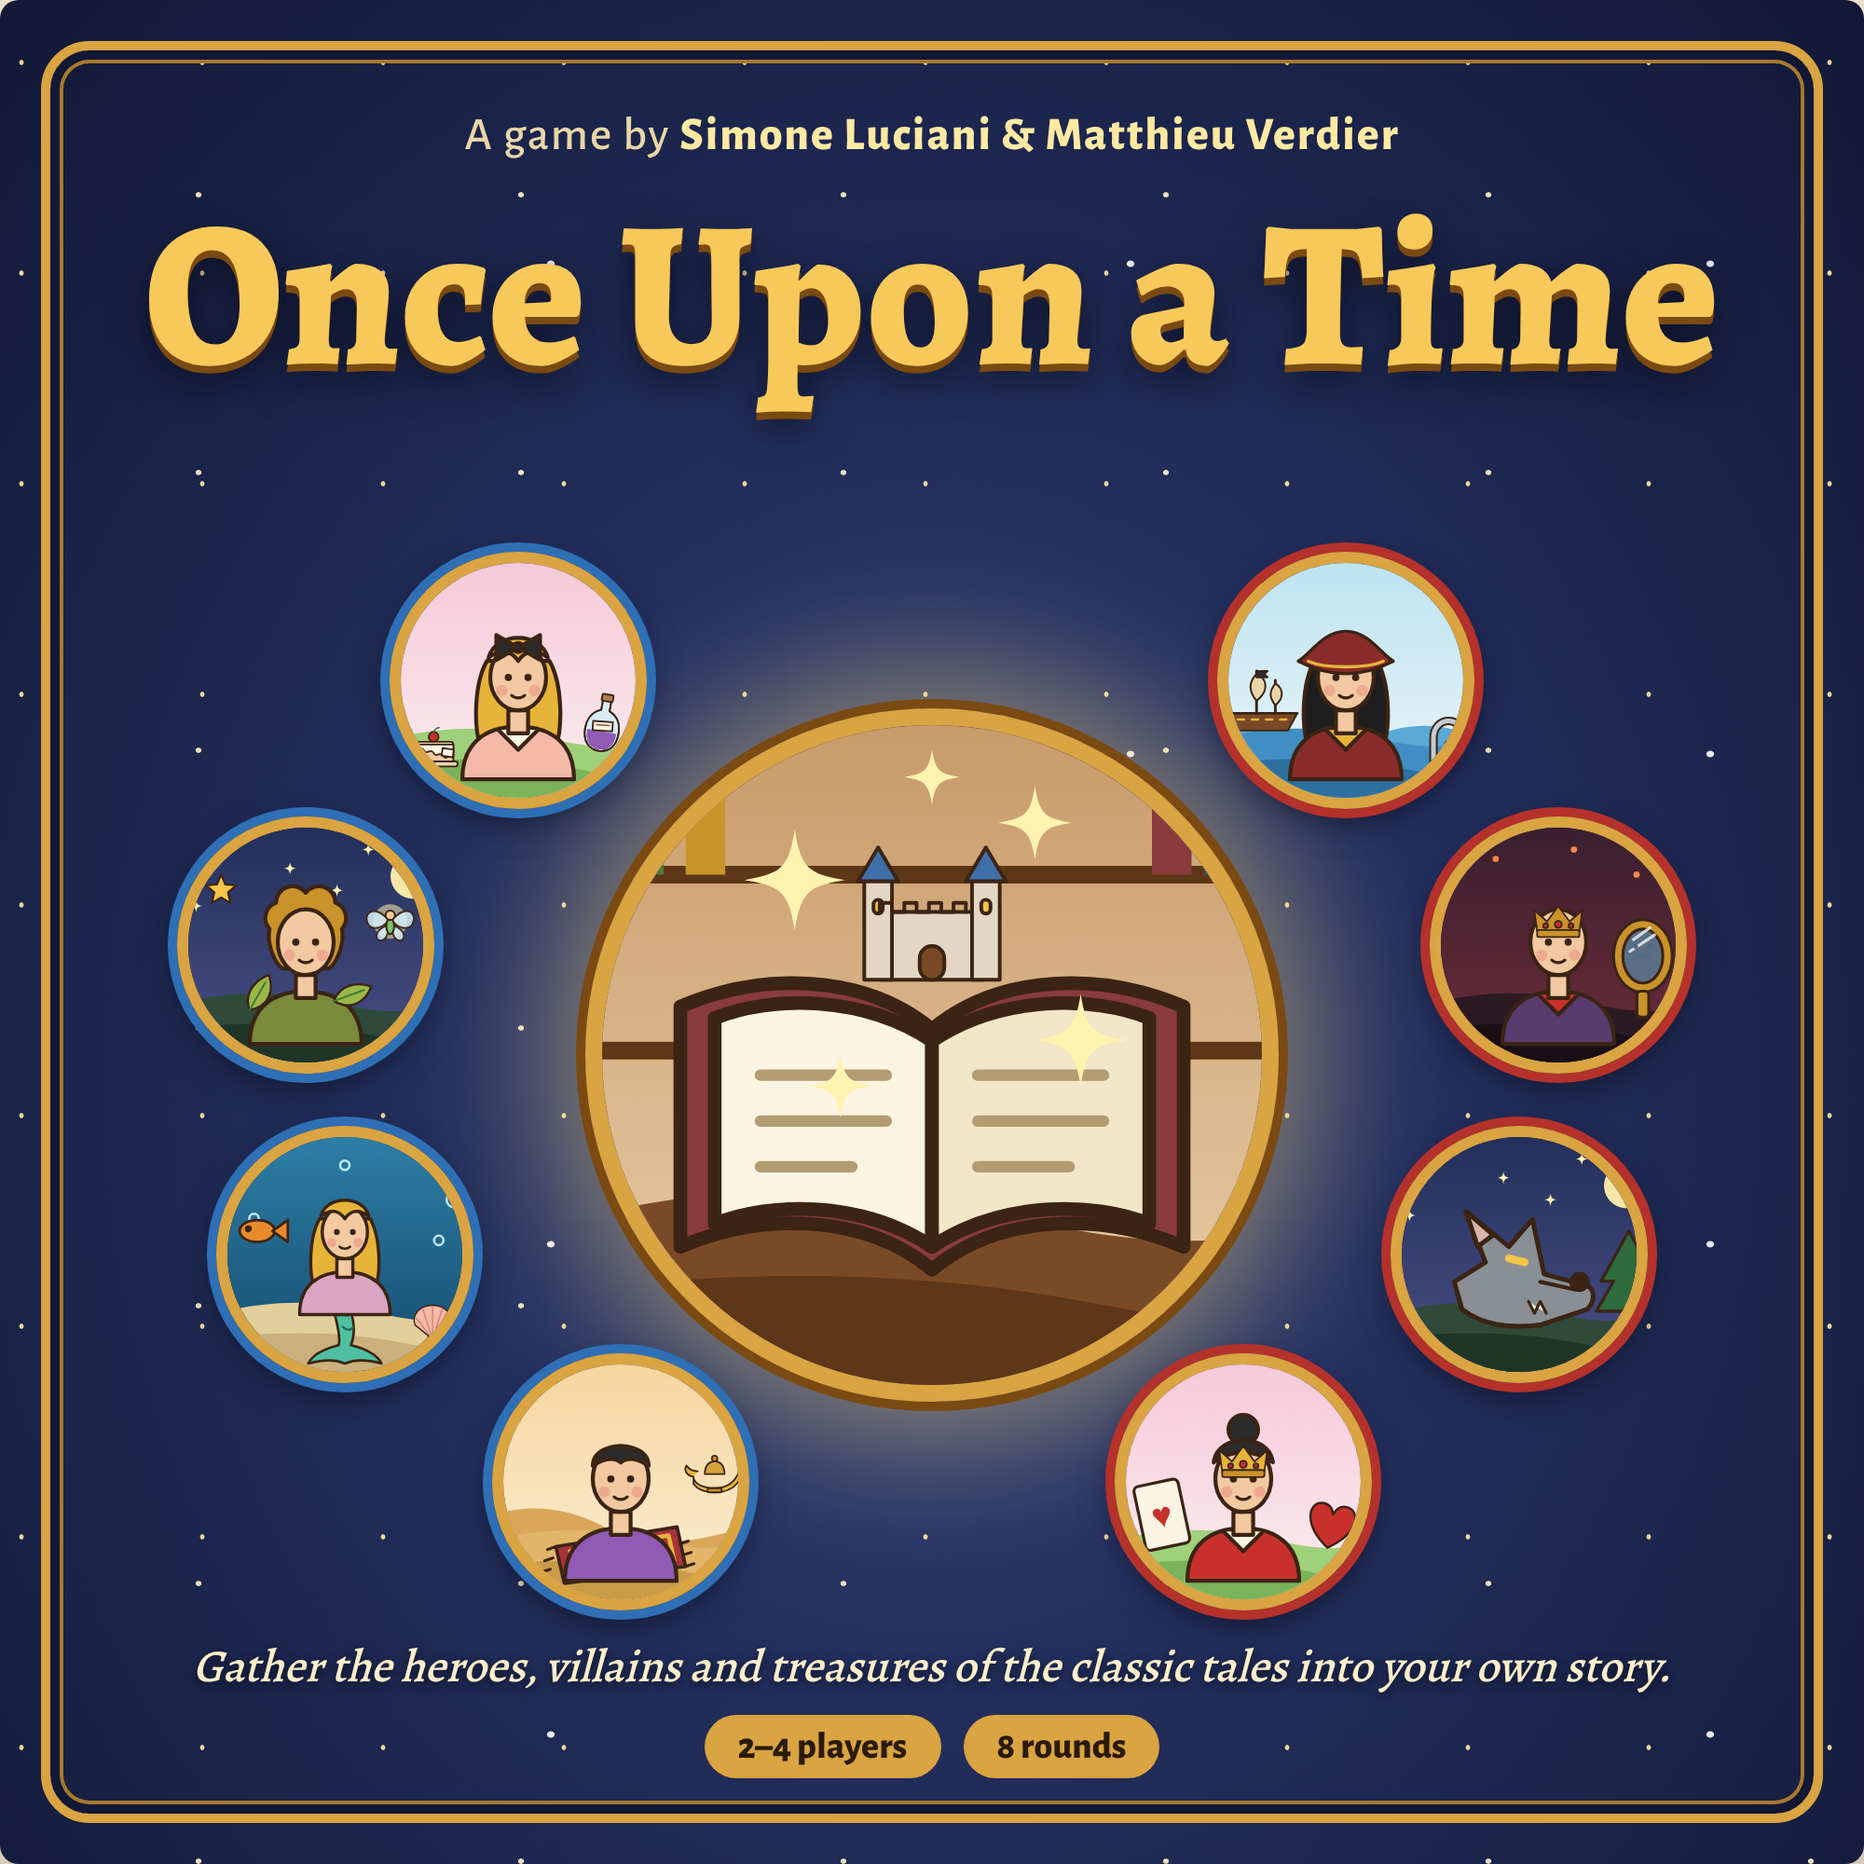
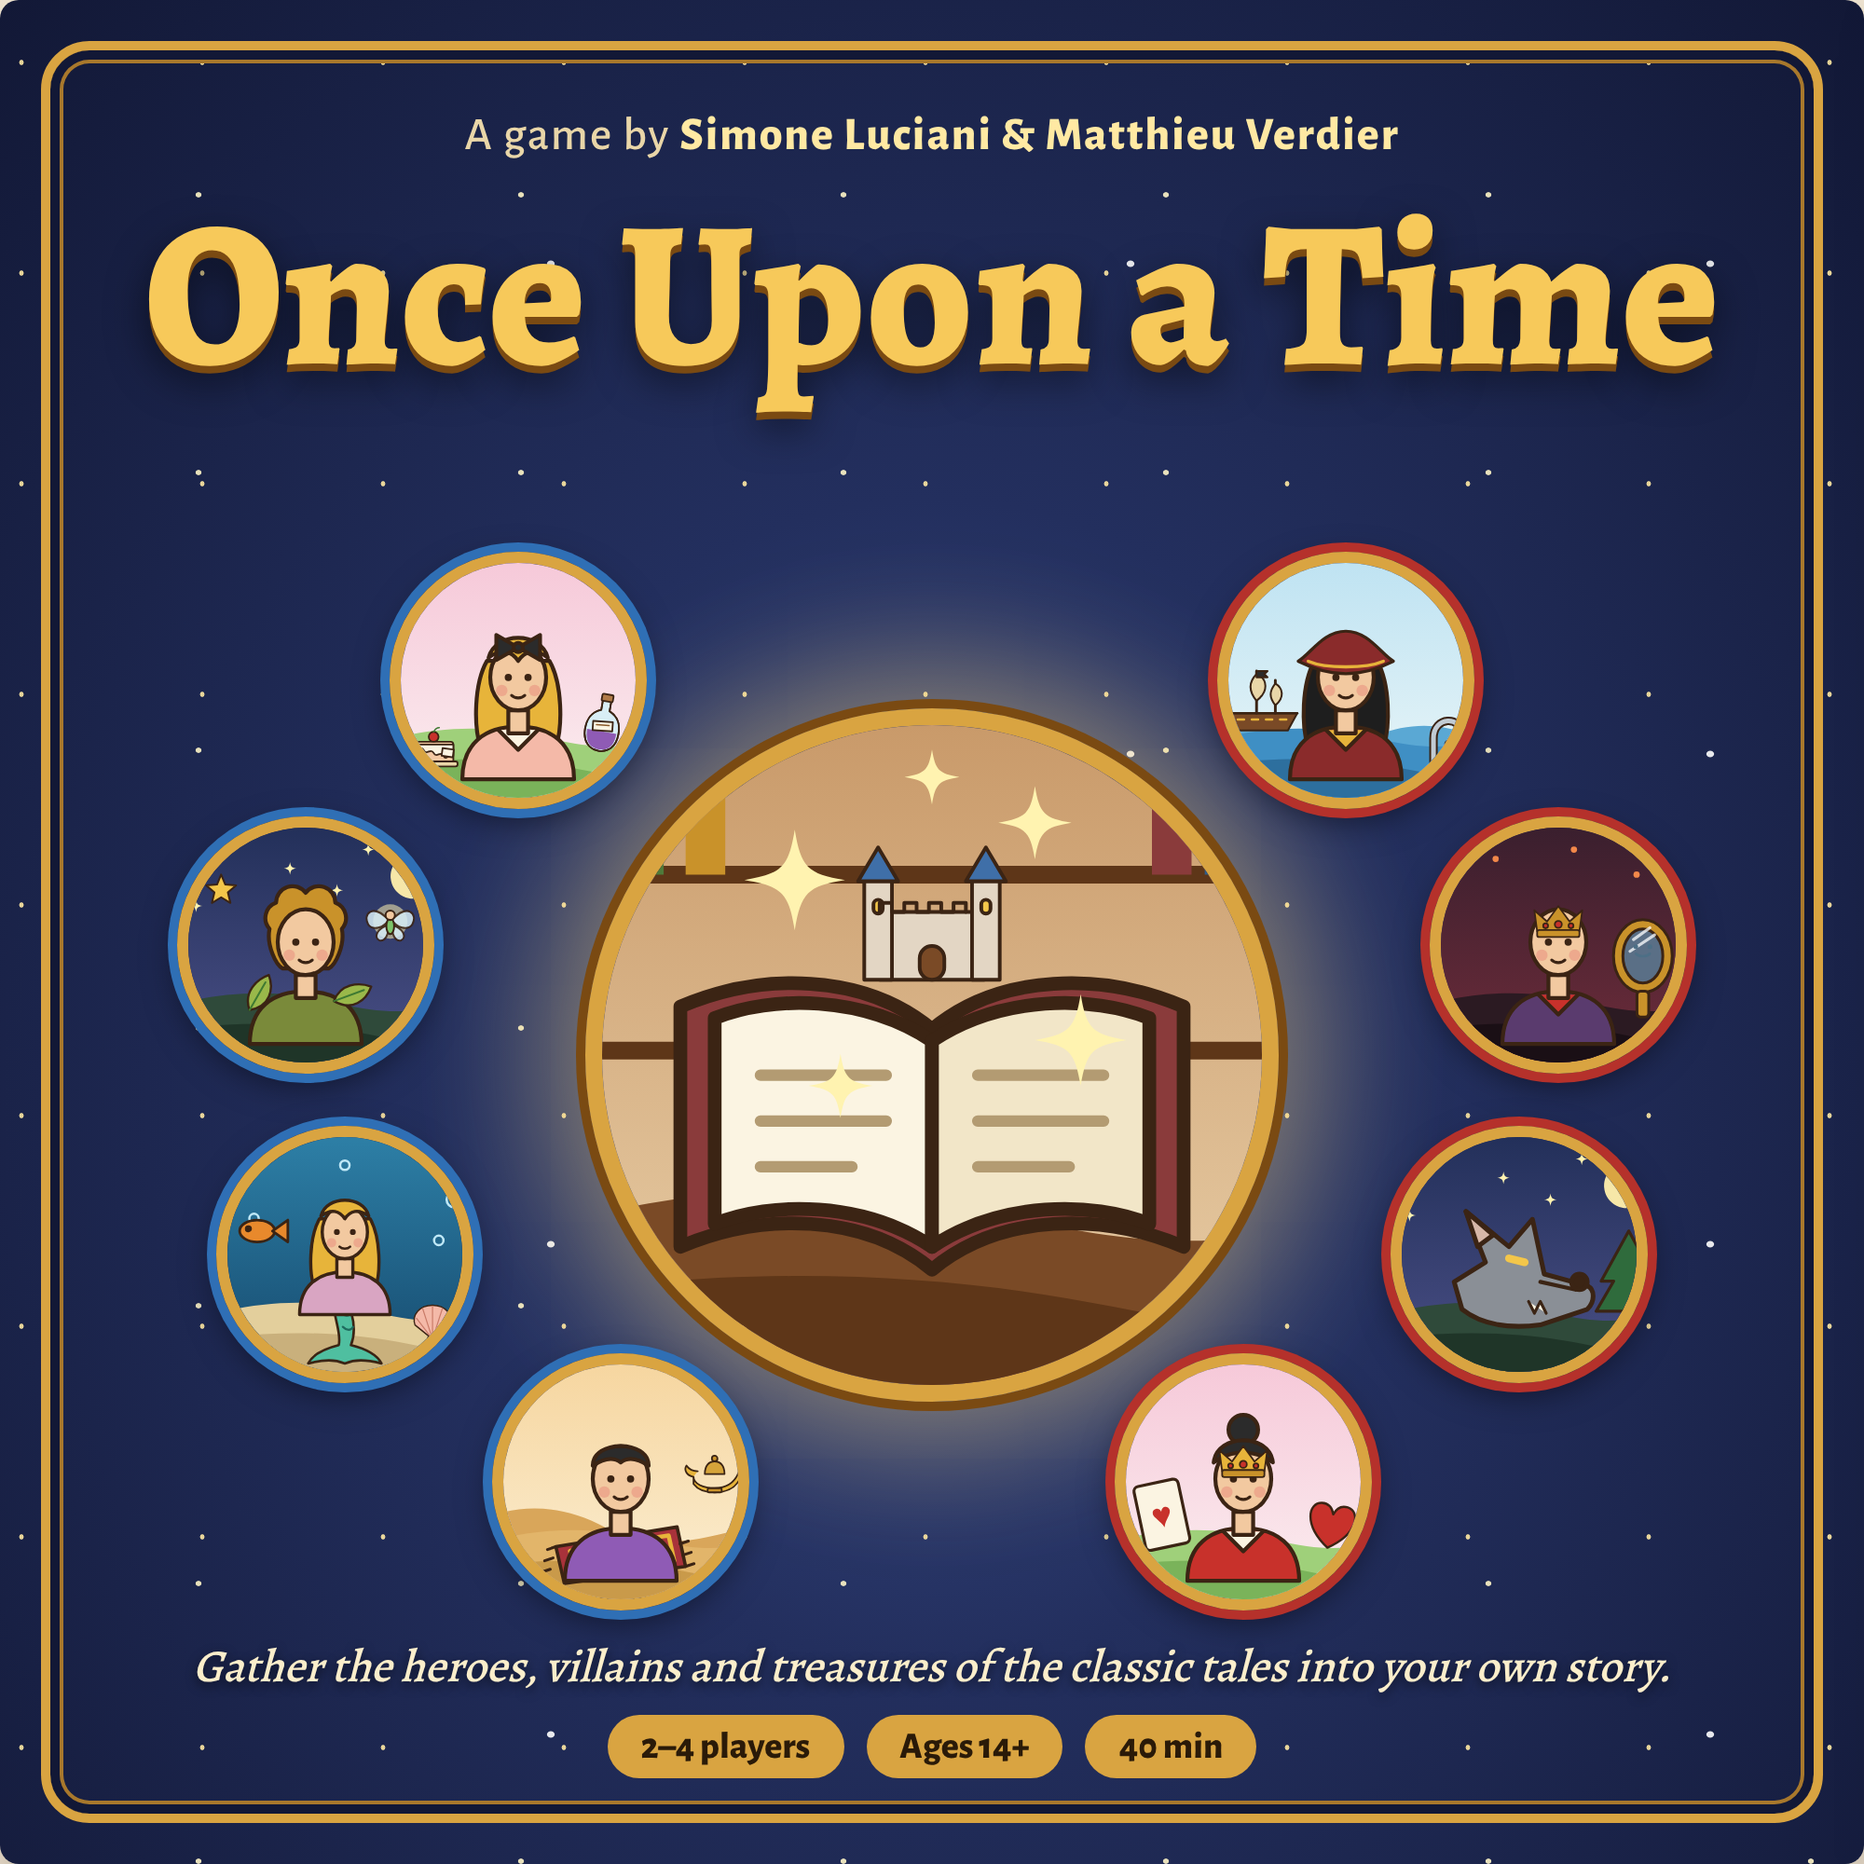
Box, rules and presentation: ages 14+, 40 minutes
Claude-Session: https://claude.ai/code/session_01SHozX5dmscNspSziz6ubYi

Changed region(s): [[0.31, 0.899, 0.682, 0.961]]

diff --git a/box.js b/box.js
@@ -5,7 +5,7 @@ const TEXT = {
   en: {
     page: "Box", cover: "Cover", back: "Box back",
     by: "A game by", tagline: "Gather the heroes, villains and treasures of the classic tales into your own story.",
-    players: "2–4 players", rounds: "8 rounds",
+    players: "2–4 players", age: "Ages 14+", time: "40 min",
     pitch: "You are storytellers. Round after round, heroes, villains and treasures step out of the classic tales, and each of you weaves them into a story of your own. After 8 rounds, the finest story wins.",
     keys: [
       ["Twelve chapters, one dilemma", "A high Chapter card lets you choose first. A low one gives a stronger effect. Each can be played only once."],
@@ -19,7 +19,7 @@ const TEXT = {
   fr: {
     page: "Boîte", cover: "Couverture", back: "Dos de boîte",
     by: "Un jeu de", tagline: "Réunissez dans votre histoire les héros, les méchants et les trésors des contes classiques.",
-    players: "2–4 joueurs", rounds: "8 manches",
+    players: "2–4 joueurs", age: "14 ans et +", time: "40 min",
     pitch: "Vous êtes des conteurs. Manche après manche, héros, méchants et trésors sortent des contes classiques, et chacun les tisse dans sa propre histoire. Après 8 manches, la plus belle histoire l’emporte.",
     keys: [
       ["Douze chapitres, un dilemme", "Une grande carte Chapitre vous fait choisir en premier. Une petite donne un effet plus fort. Chacune ne se joue qu’une fois."],
@@ -33,7 +33,7 @@ const TEXT = {
   it: {
     page: "Scatola", cover: "Copertina", back: "Retro della scatola",
     by: "Un gioco di", tagline: "Riunisci nella tua storia gli eroi, i cattivi e i tesori delle fiabe classiche.",
-    players: "2–4 giocatori", rounds: "8 round",
+    players: "2–4 giocatori", age: "14+ anni", time: "40 min",
     pitch: "Siete dei narratori. Round dopo round, eroi, cattivi e tesori escono dalle fiabe classiche, e ognuno li intreccia nella propria storia. Dopo 8 round, vince la storia più bella.",
     keys: [
       ["Dodici capitoli, un dilemma", "Una carta Capitolo alta ti fa scegliere per primo. Una bassa dà un effetto più forte. Ognuna si gioca una sola volta."],
@@ -66,7 +66,7 @@ function cover(L) {
     <div class="cover-book">${CardArt.art("Once Upon a Time")}</div>
     ${arc(good, -1)}${arc(bad, 1)}
     <p class="cover-tagline">${esc(L.tagline)}</p>
-    <div class="cover-badges"><span>${esc(L.players)}</span><span>${esc(L.rounds)}</span></div>
+    <div class="cover-badges"><span>${esc(L.players)}</span><span>${esc(L.age)}</span><span>${esc(L.time)}</span></div>
   </div>`;
 }
 
@@ -97,7 +97,7 @@ function back(L) {
     </section>
     <footer class="back-foot">
       <div class="back-contents"><b>${esc(L.contents)}</b><span>${L.list.map(esc).join(" · ")}</span></div>
-      <div class="back-badges"><span>${esc(L.players)}</span><span>${esc(L.rounds)}</span></div>
+      <div class="back-badges"><span>${esc(L.players)}</span><span>${esc(L.age)}</span><span>${esc(L.time)}</span></div>
       <p class="back-by">${esc(L.by)} ${esc(AUTHORS)}</p>
     </footer>
   </div>`;

diff --git a/present.js b/present.js
@@ -5,7 +5,7 @@ const SLIDES = {
   en: {
     title: "The game in 16 steps", prev: "Previous", next: "Next", button: "Presentation",
     slides: [
-      ["Once Upon a Time", "A game by Simone Luciani & Matthieu Verdier · 2 to 4 players", [
+      ["Once Upon a Time", "A game by Simone Luciani & Matthieu Verdier · 2 to 4 players · ages 14+ · 40 min", [
         "You are <b>storytellers</b>: you gather the heroes, villains and treasures of the classic tales into your own story.",
         "The game lasts <b>8 rounds</b>.",
         "The storyteller with the most <b>Victory Points</b> [[icon:vp]] wins."], "[[legendary:Alice]][[legendary:Captain Hook]][[item:Magic Lamp]]"],
@@ -85,7 +85,7 @@ const SLIDES = {
   fr: {
     title: "Le jeu en 16 étapes", prev: "Précédent", next: "Suivant", button: "Présentation",
     slides: [
-      ["Once Upon a Time", "Un jeu de Simone Luciani & Matthieu Verdier · 2 à 4 joueurs", [
+      ["Once Upon a Time", "Un jeu de Simone Luciani & Matthieu Verdier · 2 à 4 joueurs · 14 ans et + · 40 min", [
         "Vous êtes des <b>conteurs</b> : vous réunissez dans votre histoire les héros, les méchants et les trésors des contes classiques.",
         "La partie dure <b>8 manches</b>.",
         "Le conteur qui a le plus de <b>Points de Victoire</b> [[icon:vp]] l’emporte."], "[[legendary:Alice]][[legendary:Captain Hook]][[item:Magic Lamp]]"],
@@ -165,7 +165,7 @@ const SLIDES = {
   it: {
     title: "Il gioco in 16 tappe", prev: "Indietro", next: "Avanti", button: "Presentazione",
     slides: [
-      ["Once Upon a Time", "Un gioco di Simone Luciani & Matthieu Verdier · da 2 a 4 giocatori", [
+      ["Once Upon a Time", "Un gioco di Simone Luciani & Matthieu Verdier · da 2 a 4 giocatori · 14+ anni · 40 min", [
         "Siete dei <b>narratori</b>: riunite nella vostra storia gli eroi, i cattivi e i tesori delle fiabe classiche.",
         "La partita dura <b>8 round</b>.",
         "Vince il narratore con più <b>Punti Vittoria</b> [[icon:vp]]."], "[[legendary:Alice]][[legendary:Captain Hook]][[item:Magic Lamp]]"],

diff --git a/index.html b/index.html
@@ -5,9 +5,9 @@
     <meta name="viewport" content="width=device-width, initial-scale=1" />
     <title>Once Upon a Time</title>
     <link rel="stylesheet" href="assets/fonts/fonts.css" />
-    <link rel="stylesheet" href="styles.css?v=178" />
-    <link rel="stylesheet" href="rules.css?v=178" />
-    <link rel="stylesheet" href="present.css?v=178" />
+    <link rel="stylesheet" href="styles.css?v=179" />
+    <link rel="stylesheet" href="rules.css?v=179" />
+    <link rel="stylesheet" href="present.css?v=179" />
   </head>
   <body>
     <section id="home" class="home-screen" hidden>
@@ -186,17 +186,17 @@
       </section>
     <div id="coach" class="coach" hidden role="status"></div>
 
-    <script src="game-data.js?v=178"></script>
-    <script src="i18n-cards.js?v=178"></script>
-    <script src="i18n.js?v=178"></script>
-    <script src="art.js?v=178"></script>
-    <script src="cards.js?v=178"></script>
-    <script src="app.js?v=178"></script>
-    <script src="bot.js?v=178"></script>
-    <script src="online.js?v=178"></script>
-    <script src="sims.js?v=178"></script>
-    <script src="rules.js?v=178"></script>
-    <script src="present.js?v=178"></script>
-    <script src="home.js?v=178"></script>
+    <script src="game-data.js?v=179"></script>
+    <script src="i18n-cards.js?v=179"></script>
+    <script src="i18n.js?v=179"></script>
+    <script src="art.js?v=179"></script>
+    <script src="cards.js?v=179"></script>
+    <script src="app.js?v=179"></script>
+    <script src="bot.js?v=179"></script>
+    <script src="online.js?v=179"></script>
+    <script src="sims.js?v=179"></script>
+    <script src="rules.js?v=179"></script>
+    <script src="present.js?v=179"></script>
+    <script src="home.js?v=179"></script>
   </body>
 </html>

diff --git a/box.html b/box.html
@@ -5,9 +5,9 @@
     <meta name="viewport" content="width=device-width, initial-scale=1" />
     <title>Once Upon a Time · Box</title>
     <link rel="stylesheet" href="assets/fonts/fonts.css" />
-    <link rel="stylesheet" href="styles.css?v=178" />
-    <link rel="stylesheet" href="rules.css?v=178" />
-    <link rel="stylesheet" href="box.css?v=178" />
+    <link rel="stylesheet" href="styles.css?v=179" />
+    <link rel="stylesheet" href="rules.css?v=179" />
+    <link rel="stylesheet" href="box.css?v=179" />
   </head>
   <body class="rules-body box-body">
     <header class="rules-top">
@@ -16,12 +16,12 @@
       <button type="button" class="rules-print" onclick="window.print()">🖨</button>
     </header>
     <main id="box"></main>
-    <script src="game-data.js?v=178"></script>
-    <script src="i18n-cards.js?v=178"></script>
-    <script src="i18n.js?v=178"></script>
-    <script src="art.js?v=178"></script>
-    <script src="cards.js?v=178"></script>
-    <script src="rules.js?v=178"></script>
-    <script src="box.js?v=178"></script>
+    <script src="game-data.js?v=179"></script>
+    <script src="i18n-cards.js?v=179"></script>
+    <script src="i18n.js?v=179"></script>
+    <script src="art.js?v=179"></script>
+    <script src="cards.js?v=179"></script>
+    <script src="rules.js?v=179"></script>
+    <script src="box.js?v=179"></script>
   </body>
 </html>

diff --git a/present.html b/present.html
@@ -5,9 +5,9 @@
     <meta name="viewport" content="width=device-width, initial-scale=1" />
     <title>Once Upon a Time · Presentation</title>
     <link rel="stylesheet" href="assets/fonts/fonts.css" />
-    <link rel="stylesheet" href="styles.css?v=178" />
-    <link rel="stylesheet" href="rules.css?v=178" />
-    <link rel="stylesheet" href="present.css?v=178" />
+    <link rel="stylesheet" href="styles.css?v=179" />
+    <link rel="stylesheet" href="rules.css?v=179" />
+    <link rel="stylesheet" href="present.css?v=179" />
   </head>
   <body class="rules-body present-body">
     <header class="rules-top">
@@ -16,12 +16,12 @@
       
     </header>
     <main id="present"></main>
-    <script src="game-data.js?v=178"></script>
-    <script src="i18n-cards.js?v=178"></script>
-    <script src="i18n.js?v=178"></script>
-    <script src="art.js?v=178"></script>
-    <script src="cards.js?v=178"></script>
-    <script src="rules.js?v=178"></script>
-    <script src="present.js?v=178"></script>
+    <script src="game-data.js?v=179"></script>
+    <script src="i18n-cards.js?v=179"></script>
+    <script src="i18n.js?v=179"></script>
+    <script src="art.js?v=179"></script>
+    <script src="cards.js?v=179"></script>
+    <script src="rules.js?v=179"></script>
+    <script src="present.js?v=179"></script>
   </body>
 </html>

diff --git a/rules.html b/rules.html
@@ -5,8 +5,8 @@
     <meta name="viewport" content="width=device-width, initial-scale=1" />
     <title>Once Upon a Time · Rules</title>
     <link rel="stylesheet" href="assets/fonts/fonts.css" />
-    <link rel="stylesheet" href="styles.css?v=178" />
-    <link rel="stylesheet" href="rules.css?v=178" />
+    <link rel="stylesheet" href="styles.css?v=179" />
+    <link rel="stylesheet" href="rules.css?v=179" />
   </head>
   <body class="rules-body">
     <header class="rules-top">
@@ -15,11 +15,11 @@
       <button type="button" class="rules-print" onclick="window.print()">🖨</button>
     </header>
     <main id="rules" class="rules"></main>
-    <script src="game-data.js?v=178"></script>
-    <script src="i18n-cards.js?v=178"></script>
-    <script src="i18n.js?v=178"></script>
-    <script src="art.js?v=178"></script>
-    <script src="cards.js?v=178"></script>
-    <script src="rules.js?v=178"></script>
+    <script src="game-data.js?v=179"></script>
+    <script src="i18n-cards.js?v=179"></script>
+    <script src="i18n.js?v=179"></script>
+    <script src="art.js?v=179"></script>
+    <script src="cards.js?v=179"></script>
+    <script src="rules.js?v=179"></script>
   </body>
 </html>

diff --git a/print.html b/print.html
@@ -5,16 +5,16 @@
     <meta name="viewport" content="width=device-width, initial-scale=1" />
     <title>Once Upon a Time · Print &amp; Play</title>
     <link rel="stylesheet" href="assets/fonts/fonts.css" />
-    <link rel="stylesheet" href="styles.css?v=178" />
-    <link rel="stylesheet" href="print.css?v=178" />
+    <link rel="stylesheet" href="styles.css?v=179" />
+    <link rel="stylesheet" href="print.css?v=179" />
   </head>
   <body class="print-body">
     <div id="sheets"></div>
-    <script src="game-data.js?v=178"></script>
-    <script src="i18n-cards.js?v=178"></script>
-    <script src="i18n.js?v=178"></script>
-    <script src="art.js?v=178"></script>
-    <script src="cards.js?v=178"></script>
-    <script src="print.js?v=178"></script>
+    <script src="game-data.js?v=179"></script>
+    <script src="i18n-cards.js?v=179"></script>
+    <script src="i18n.js?v=179"></script>
+    <script src="art.js?v=179"></script>
+    <script src="cards.js?v=179"></script>
+    <script src="print.js?v=179"></script>
   </body>
 </html>

diff --git a/rules.js b/rules.js
@@ -117,7 +117,7 @@ function render(text, L) {
 const RULES = {
   en: {
     title: "Rules of the game",
-    kicker: "Once Upon a Time · 2 to 4 players",
+    kicker: "Once Upon a Time · 2 to 4 players · ages 14+ · 40 min",
     toc: "Contents",
     players: "Players",
     groups: "Groups revealed each round",
@@ -199,7 +199,7 @@ const RULES = {
   },
   fr: {
     title: "Règles du jeu",
-    kicker: "Once Upon a Time · 2 à 4 joueurs",
+    kicker: "Once Upon a Time · 2 à 4 joueurs · 14 ans et + · 40 min",
     toc: "Sommaire",
     players: "Joueurs",
     groups: "Groupes révélés à chaque manche",
@@ -281,7 +281,7 @@ const RULES = {
   },
   it: {
     title: "Regole del gioco",
-    kicker: "Once Upon a Time · da 2 a 4 giocatori",
+    kicker: "Once Upon a Time · da 2 a 4 giocatori · 14+ anni · 40 min",
     toc: "Indice",
     players: "Giocatori",
     groups: "Gruppi rivelati a ogni round",

diff --git a/box.css b/box.css
@@ -61,3 +61,6 @@
 .back-badges span { background: #7a3a24; color: #fff4dc; }
 .back-by { grid-column: 1 / -1; margin: 0; text-align: center; font: italic 17px "Alegreya", serif; color: #6b4a30; }
 @media print { .rules-top, .box-wrap figcaption { display: none; } .box-face { zoom: 1; box-shadow: none; page-break-after: always; } }
+
+.back-badges { gap: 8px; }
+.back-badges span { font-size: 18px; padding: 5px 14px; white-space: nowrap; }
